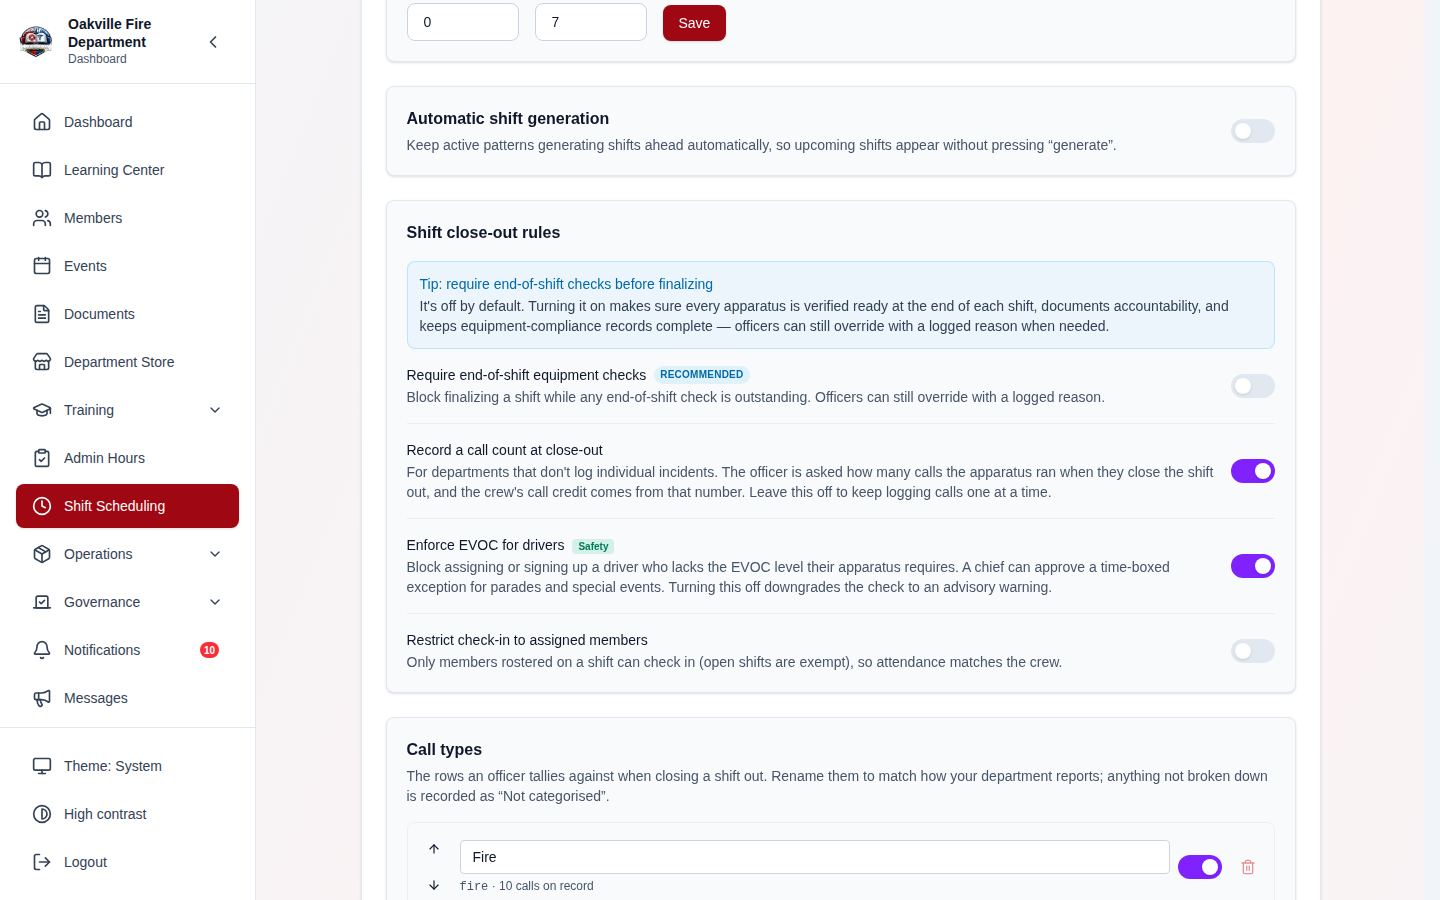
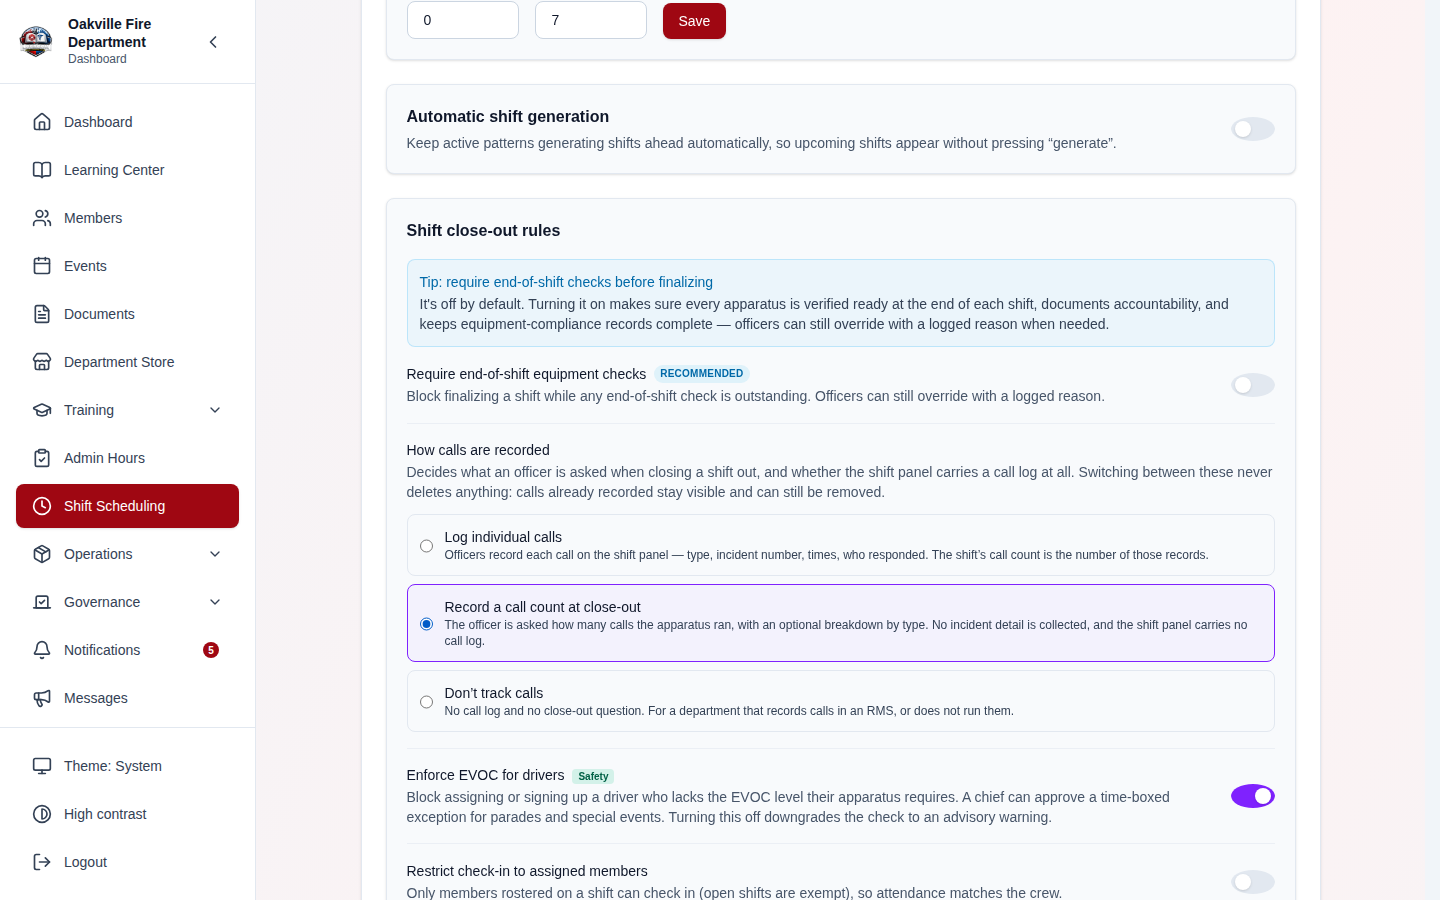
docs(screenshots): re-shoot the call-tracking settings capture
`03-74-settings-call-count-toggle.png` showed the two-state switch this
branch replaced with a three-option radio group, so the guide pictured a
control that no longer exists.

Captured from the running application through the normal pipeline
(`dev_env.sh`, `bootstrap_demo.py`, `seed_demo_data.py`,
`capture.mjs --only 03-74`). The manifest's alt text and guide 03's image alt
now describe the choices rather than a switched-on toggle, and the "pending
re-capture" note added when the control changed is gone.

The manifest's `prepare` framed on the selected option's label, which centred
the viewport on the middle choice and cropped the one above it out of a
picture whose whole subject is that there are three. It frames on the group
heading instead.

The id keeps the word "toggle". It is a filename; renaming it would rewrite
every reference in this guide, the currency tracker and the manifest for no
reader's benefit.

**The seeder needed fixing before this could be captured at all.** Since the
close-out call gate landed, `PATCH /scheduling/shifts/{id}/closeout/calls`
refuses a count from any mode but count-only, and `seed_count_only_calls` had
always written its history from the `detailed` default — precisely the
accident that gate exists to stop. It now switches the mode for the duration
of its writes and restores it afterwards, so the seeder's net effect on
settings stays zero: `seed_shift_calls` above it needs `detailed` for its
[…]

diff --git a/scripts/screenshots/seed_demo_data.py b/scripts/screenshots/seed_demo_data.py
@@ -3314,7 +3314,46 @@ class Seeder:
         Recording counts does **not** finalize anything. Step 2 saves and the
         shift stays open, so this neither spends the close-out fixture nor
         changes any shift's finalized state.
+
+        **The organization has to be in count-only mode while this runs.**
+        Since 2026-09-11 the endpoint refuses a close-out count from any other
+        mode — the rows it writes are invisible to a report that picks its
+        source from the org's current mode, while the call-type deletion guard
+        still reads them. This used to work from the `detailed` default, which
+        is exactly the accident the gate exists to stop. The mode is restored
+        afterwards so the seeder's net effect on settings stays zero:
+        `seed_shift_calls` above needs `detailed` to write its per-incident
+        rows, and every screenshot that cares forces its own mode anyway.
         """
+        settings = self.api.get("/scheduling/settings") or {}
+        tracking = settings.get("call_tracking") or {}
+        previous_mode = tracking.get("mode") or "detailed"
+        call_types = tracking.get("call_types") or []
+
+        def set_mode(mode: str) -> bool:
+            try:
+                self.api.put(
+                    "/scheduling/settings",
+                    # The payload replaces the whole call_tracking object, so
+                    # the type list has to travel with it or the department's
+                    # own types are wiped.
+                    {"call_tracking": {"mode": mode, "call_types": call_types}},
+                )
+                return True
+            except ApiError as exc:
+                self.blocked.append(f"count-only calls: setting mode {mode}: {exc}")
+                return False
+
+        if previous_mode != "count_only" and not set_mode("count_only"):
+            return
+        try:
+            self._record_count_only_calls()
+        finally:
+            if previous_mode != "count_only":
+                set_mode(previous_mode)
+
+    def _record_count_only_calls(self) -> None:
+        """Write the counts themselves. Caller owns the tracking mode."""
         shifts = [
             s
             for s in items(self.api.get("/scheduling/shifts?limit=200"), "shifts")

diff --git a/docs/training/SCREENSHOT_CURRENCY.md b/docs/training/SCREENSHOT_CURRENCY.md
@@ -1,5 +1,30 @@
 # Screenshot currency
 
+## Disposition for September 12, 2026 - call tracking became a three-way choice
+
+**Re-shot, so this adds no queue.** `call_tracking.mode` has always had three
+values, but the settings control was a two-state switch that could only reach
+two of them; it is now a radio group, and `off` is selectable for the first
+time.
+
+| Image                                    | Re-shot | What had changed                                                              |
+| ---------------------------------------- | ------- | ----------------------------------------------------------------------------- |
+| `03-74-settings-call-count-toggle.png`   | 09-12   | The switch became three radio options under a **How calls are recorded** heading |
+
+The id still says "toggle". It is a filename, and renaming it would rewrite
+every reference to it here, in guide 03 and in the manifest for no reader's
+benefit; the alt text describes what the picture now shows.
+
+**The seeder needed a fix before this could be captured at all**, which is
+worth recording because nothing else would have caught it. Since 2026-09-11
+`PATCH /scheduling/shifts/{id}/closeout/calls` refuses a count from any mode
+but count-only, and `seed_count_only_calls` had always written its history
+from the `detailed` default — which is precisely the accident that gate
+exists to stop. It now switches the mode for the duration of its writes and
+restores it afterwards. Without that, the count-only Call Volume shots have no
+data behind them and the seeder reports the failure only in its blocked list,
+where a capture run does not look.
+
 ## Disposition for September 7-8, 2026 - the items list gained pinning and grouping
 
 **Everything this change invalidated has been re-shot, so this section adds no

diff --git a/docs/training/03-scheduling.md b/docs/training/03-scheduling.md
@@ -357,11 +357,7 @@ Switching between them never deletes anything. Calls already recorded stay
 visible and removable, and your configured call types survive a trip through
 either other setting.
 
-> **The screenshot below predates 2026-09-12**, when this was a two-state
-> **Record a call count at close-out** switch rather than the three choices
-> above. The block's position on the page is unchanged. Pending re-capture.
-
-![Scheduling Settings, General section — the Shift close-out rules block with 'Record a call count at close-out' switched on](./images/03-74-settings-call-count-toggle.png)
+![Scheduling Settings, General section — the 'How calls are recorded' choices, with 'Record a call count at close-out' selected](./images/03-74-settings-call-count-toggle.png)
 
 It takes effect immediately **in your own browser** — no reload, no restart.
 **Tell your officers before you flip it**, because it changes what they see at
